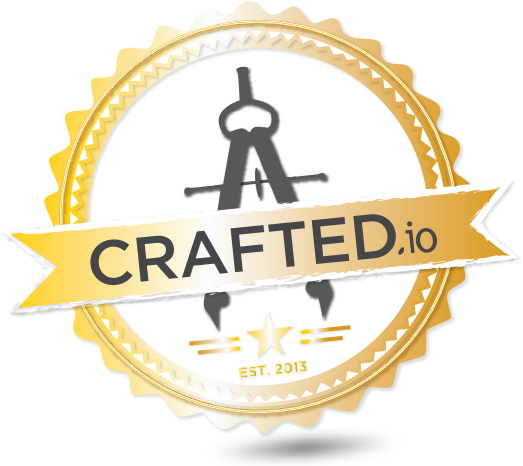
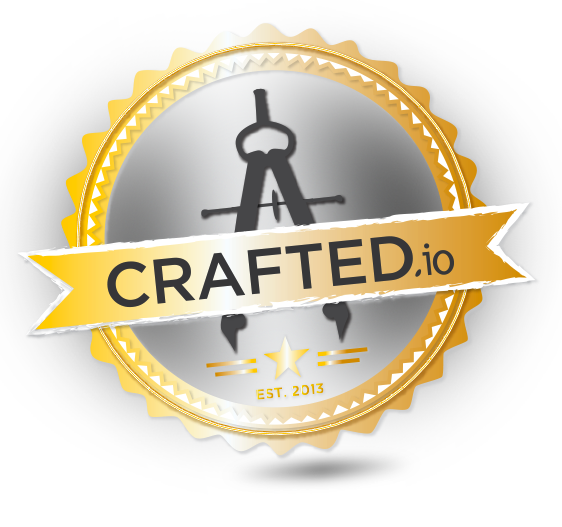
widgets

diff --git a/source/css/pages/_home.css.scss b/source/css/pages/_home.css.scss
@@ -87,7 +87,7 @@ body.home {
 
         // Illustration
         &:last-child {
-          background: transparent image-url('x.png') no-repeat 21px 14px;
+          background: transparent image-url('seal.png') no-repeat 21px 14px;
           width: 380px;
           height: 400px;
           background-size: 92%;
@@ -137,5 +137,76 @@ body.home {
       font-size: 12px;
     }
   }
+
+  #widgets {
+    display: block;
+
+
+    > li {
+
+      &:last-child {
+
+        > ul > li > ul > li {
+          h3 {
+            font: 28px gotham_mediumregular;
+            margin-top: 10px;
+          }        
+          background: #f6f5eb;
+          border:6px solid;
+          border-radius:10px;
+          border-color:#999999;
+          width: 700px;
+          vertical-align: top;
+          padding: 0px 10px 5px 10px;
+          margin: 0px 5px 10px 0px;
+          &:first-child {
+            height: 260px;
+            p {
+              float: left;
+              width: 460px;
+            }
+          }
+          &:last-child {
+            height:800px;
+            p {
+              width: 100%;
+            }            
+          }
+          ul {
+           margin-top: 10px;
+          }
+          li {
+            list-style-type: square;
+            list-style-position:inside;
+            color: #777;
+          }
+          h4 {
+          font-size: 25px;
+            text-transform:uppercase;
+          }
+          img {
+            width:180px;
+            margin-right:30px;
+            margin-top: 20px;
+            float: left;
+          }   
+          p {
+            font: 15px gotham_bookregular;
+            line-height: 1.4em;
+          }   
+          iframe {
+            float:left;
+            width: 100%;
+            height: 500px;
+          }      
+        }
+      }
+
+  }    
+
+
+  }
+
+
 
 }

diff --git a/source/css/pages/_pricing.css.scss b/source/css/pages/_pricing.css.scss
@@ -36,6 +36,42 @@ body.pricing {
     padding-right: 53px;
   }
 
+
+  .columned {
+
+    > li {
+
+      &:last-child {
+
+        > ul > li > ul > li {
+          background: #f6f5eb;
+          border:2px solid;
+          border-radius:10px;
+          border-color:#999999;
+          width: 195px;
+          height: 185px;
+          vertical-align: top;
+          padding: 0px 10px 5px 10px;
+          margin: 0px 5px 10px 0px;
+          p {
+            line-height: 1.4em;
+          }
+          ul {
+           margin-top: 10px;
+          }
+          li {
+            list-style-type: square;
+            list-style-position:inside;
+            color: #777;
+          }
+          h4 {
+            text-transform:none;
+          }          
+        }
+      }
+    }
+  }
+
   #free {
     display: block;
 

diff --git a/source/css/partials/_nav-banner.css.scss b/source/css/partials/_nav-banner.css.scss
@@ -1,4 +1,4 @@
-// Central naivigation banner
+// Central navigation banner
 // ============================================================================
 
 #nav-banner {
@@ -21,7 +21,7 @@
 
       a {
         font-size: 18px;
-        padding: 18px 30px 15px;
+        padding: 18px 5px 15px;
       }
 
       i {
